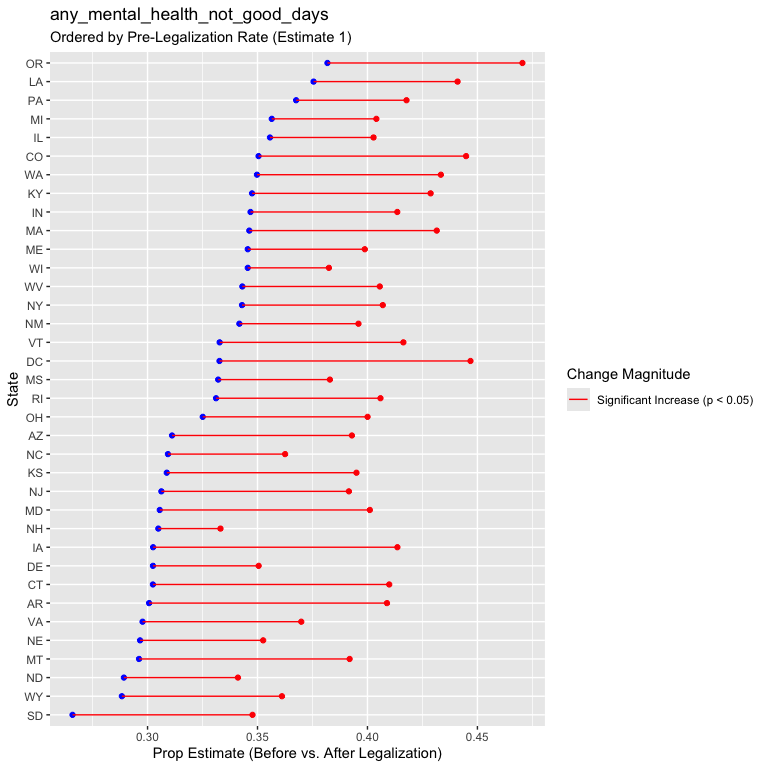
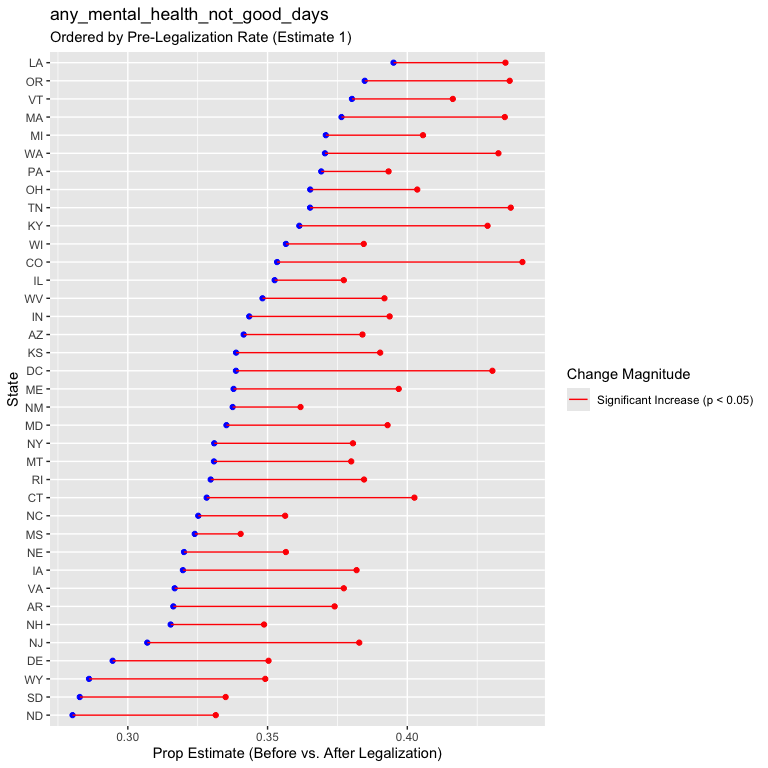
updating prop tests

diff --git a/eda/brfss_prop_tests.md b/eda/brfss_prop_tests.md
@@ -189,8 +189,6 @@ run_prop_test_state_legalization = function(state_df){
 Mapping across all states
 
 ``` r
-outcome_vars <- c("any_physical_health_not_good_days", "any_mental_health_not_good_days",
-                  "has_depressive_disorder", "has_binge_drink")
 prop_tests_sb_legal = 
   brfss_data |> 
   select(state, sb_legal, all_of(outcome_vars)) |>
@@ -211,21 +209,21 @@ prop_tests_sb_legal =
     significant_increase = p.value < 0.05
   )
 
-prop_tests_state
+prop_tests_sb_legal
 ## # A tibble: 216 × 8
 ## # Groups:   state, outcome [216]
-##    state outcome                 estimate1 estimate2  p.value conf.low conf.high
-##    <dbl> <chr>                       <dbl>     <dbl>    <dbl>    <dbl>     <dbl>
-##  1     1 any_physical_health_no…    0.415      0.401 9.06e- 1       -1   0.0309 
-##  2     1 any_mental_health_not_…    0.346      0.384 9.13e- 5       -1  -0.0209 
-##  3     1 has_depressive_disorder    0.234      0.239 2.96e- 1       -1   0.00974
-##  4     1 has_binge_drink            0.0876     0.109 2.34e- 4       -1  -0.0112 
-##  5     2 any_physical_health_no…    0.402      0.414 1.72e- 1       -1   0.00829
-##  6     2 any_mental_health_not_…    0.321      0.405 2.98e-13       -1  -0.0652 
-##  7     2 has_depressive_disorder    0.171      0.210 2.79e- 5       -1  -0.0229 
-##  8     2 has_binge_drink            0.154      0.150 6.64e- 1       -1   0.0185 
-##  9     4 any_physical_health_no…    0.367      0.410 6.29e- 9       -1  -0.0299 
-## 10     4 any_mental_health_not_…    0.311      0.393 3.09e-30       -1  -0.0697 
+##    state outcome                estimate1 estimate2   p.value conf.low conf.high
+##    <dbl> <chr>                      <dbl>     <dbl>     <dbl>    <dbl>     <dbl>
+##  1     1 any_physical_health_n…    NA        NA     NA              NA   NA     
+##  2     1 any_mental_health_not…    NA        NA     NA              NA   NA     
+##  3     1 has_depressive_disord…    NA        NA     NA              NA   NA     
+##  4     1 has_binge_drink           NA        NA     NA              NA   NA     
+##  5     2 any_physical_health_n…    NA        NA     NA              NA   NA     
+##  6     2 any_mental_health_not…    NA        NA     NA              NA   NA     
+##  7     2 has_depressive_disord…    NA        NA     NA              NA   NA     
+##  8     2 has_binge_drink           NA        NA     NA              NA   NA     
+##  9     4 any_physical_health_n…     0.365     0.401  3.25e-20       -1   -0.0296
+## 10     4 any_mental_health_not…     0.341     0.384  4.83e-28       -1   -0.0360
 ## # ℹ 206 more rows
 ## # ℹ 1 more variable: significant_increase <lgl>
 ```
@@ -234,7 +232,7 @@ Plotting
 
 ``` r
 plotting_df = 
-  prop_tests_state |> 
+  prop_tests_sb_legal |> 
   rename(fips = state) |> 
   right_join(state_fips_legalized_only, by = "fips") |> 
   drop_na(estimate1, estimate2) |>
@@ -280,3 +278,74 @@ for (current_outcome in outcome_vars_unique) {
 ```
 
 <img src="brfss_prop_tests_files/figure-gfm/unnamed-chunk-6-1.png" width="90%" /><img src="brfss_prop_tests_files/figure-gfm/unnamed-chunk-6-2.png" width="90%" /><img src="brfss_prop_tests_files/figure-gfm/unnamed-chunk-6-3.png" width="90%" /><img src="brfss_prop_tests_files/figure-gfm/unnamed-chunk-6-4.png" width="90%" />
+
+### Before and After legalization - only looking at adults \<50
+
+``` r
+prop_tests_sb_legal = 
+  brfss_data |> 
+  filter(age_group_5yr %in% c("18-24", "25-29", "30-34", "35-39", "40-44", "45-49")) |> 
+  select(state, sb_legal, all_of(outcome_vars)) |>
+  pivot_longer(
+        cols = all_of(outcome_vars),
+        names_to = "outcome",
+        values_to = "outcome_value" 
+    ) |>
+  group_by(state, outcome) |>
+  nest() |> 
+  mutate(
+    test_result = map(data, run_prop_test_state_legalization)
+  ) |> 
+  select(-data) |> 
+  unnest(cols = c(test_result)) |> 
+  select(state, outcome, estimate1, estimate2, p.value, conf.low, conf.high) |> 
+  mutate(
+    significant_increase = p.value < 0.05
+  )
+
+prop_tests_sb_legal
+## # A tibble: 216 × 8
+## # Groups:   state, outcome [216]
+##    state outcome                estimate1 estimate2   p.value conf.low conf.high
+##    <dbl> <chr>                      <dbl>     <dbl>     <dbl>    <dbl>     <dbl>
+##  1     1 any_physical_health_n…    NA        NA     NA              NA   NA     
+##  2     1 any_mental_health_not…    NA        NA     NA              NA   NA     
+##  3     1 has_depressive_disord…    NA        NA     NA              NA   NA     
+##  4     1 has_binge_drink           NA        NA     NA              NA   NA     
+##  5     2 any_physical_health_n…    NA        NA     NA              NA   NA     
+##  6     2 any_mental_health_not…    NA        NA     NA              NA   NA     
+##  7     2 has_depressive_disord…    NA        NA     NA              NA   NA     
+##  8     2 has_binge_drink           NA        NA     NA              NA   NA     
+##  9     4 any_physical_health_n…     0.334     0.385  4.09e-13       -1   -0.0391
+## 10     4 any_mental_health_not…     0.469     0.540  2.44e-22       -1   -0.0594
+## # ℹ 206 more rows
+## # ℹ 1 more variable: significant_increase <lgl>
+
+
+plotting_df = 
+  prop_tests_sb_legal |> 
+  rename(fips = state) |> 
+  right_join(state_fips_legalized_only, by = "fips") |> 
+  drop_na(estimate1, estimate2) |>
+  mutate(
+    significant_increase = factor(significant_increase, levels = c(TRUE, FALSE))
+  ) 
+
+
+  
+
+outcome_vars_unique <- unique(pull(plotting_df,outcome))
+
+
+for (current_outcome in outcome_vars_unique) {
+  plot = 
+    plotting_df |>
+    filter(outcome == current_outcome) |> 
+    plot_outcome_props()
+  
+  print(plot)
+    
+}
+```
+
+<img src="brfss_prop_tests_files/figure-gfm/unnamed-chunk-7-1.png" width="90%" /><img src="brfss_prop_tests_files/figure-gfm/unnamed-chunk-7-2.png" width="90%" /><img src="brfss_prop_tests_files/figure-gfm/unnamed-chunk-7-3.png" width="90%" /><img src="brfss_prop_tests_files/figure-gfm/unnamed-chunk-7-4.png" width="90%" />
